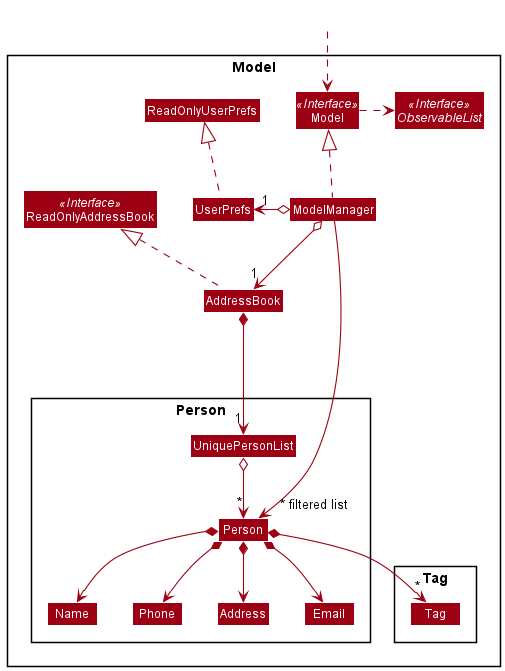
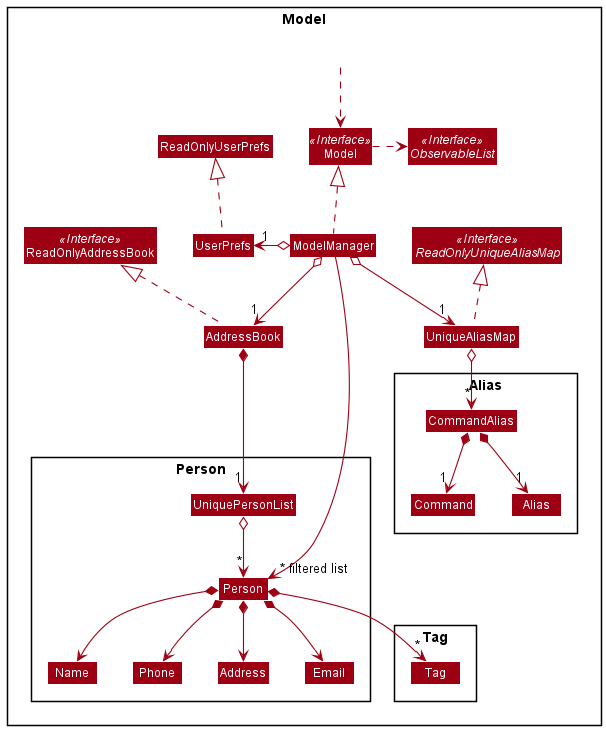
docs: Update Storage and Model components in DG

Changed region(s): [[0.0, 0.0, 1.0, 1.0], [0.1782, 0.8346, 0.2079, 0.8644]]

diff --git a/docs/DeveloperGuide.md b/docs/DeveloperGuide.md
@@ -104,6 +104,8 @@ The `Model`,
 * stores a `UserPref` object that represents the user’s preferences.
 * stores the address book data.
 * exposes an unmodifiable `ObservableList<Person>` that can be 'observed' e.g. the UI can be bound to this list so that the UI automatically updates when the data in the list change.
+* stores the alias data.
+* exposes an unmodifiable `ObservableList<CommandAlias>` that can be 'observed' e.g. the UI can be bound to this list so that the UI automatically updates when the data in the list change.
 * does not depend on any of the other three components.
 
 
@@ -122,6 +124,7 @@ The `Model`,
 The `Storage` component,
 * can save `UserPref` objects in json format and read it back.
 * can save the address book data in json format and read it back.
+* can save the aliases data in json format and read it back.
 
 ### Common classes
 
